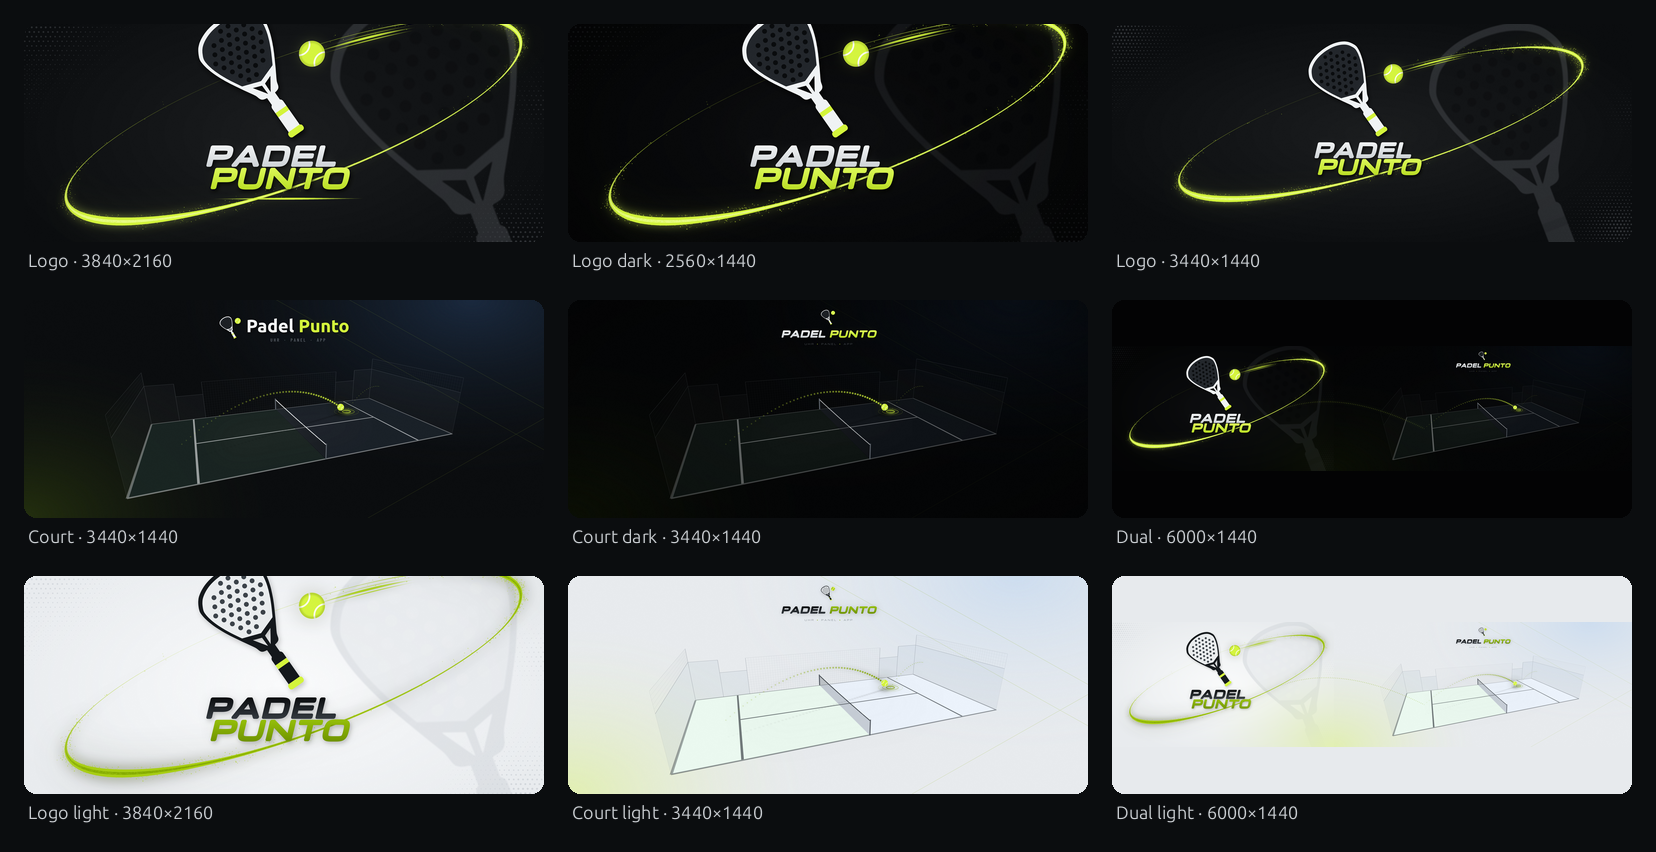
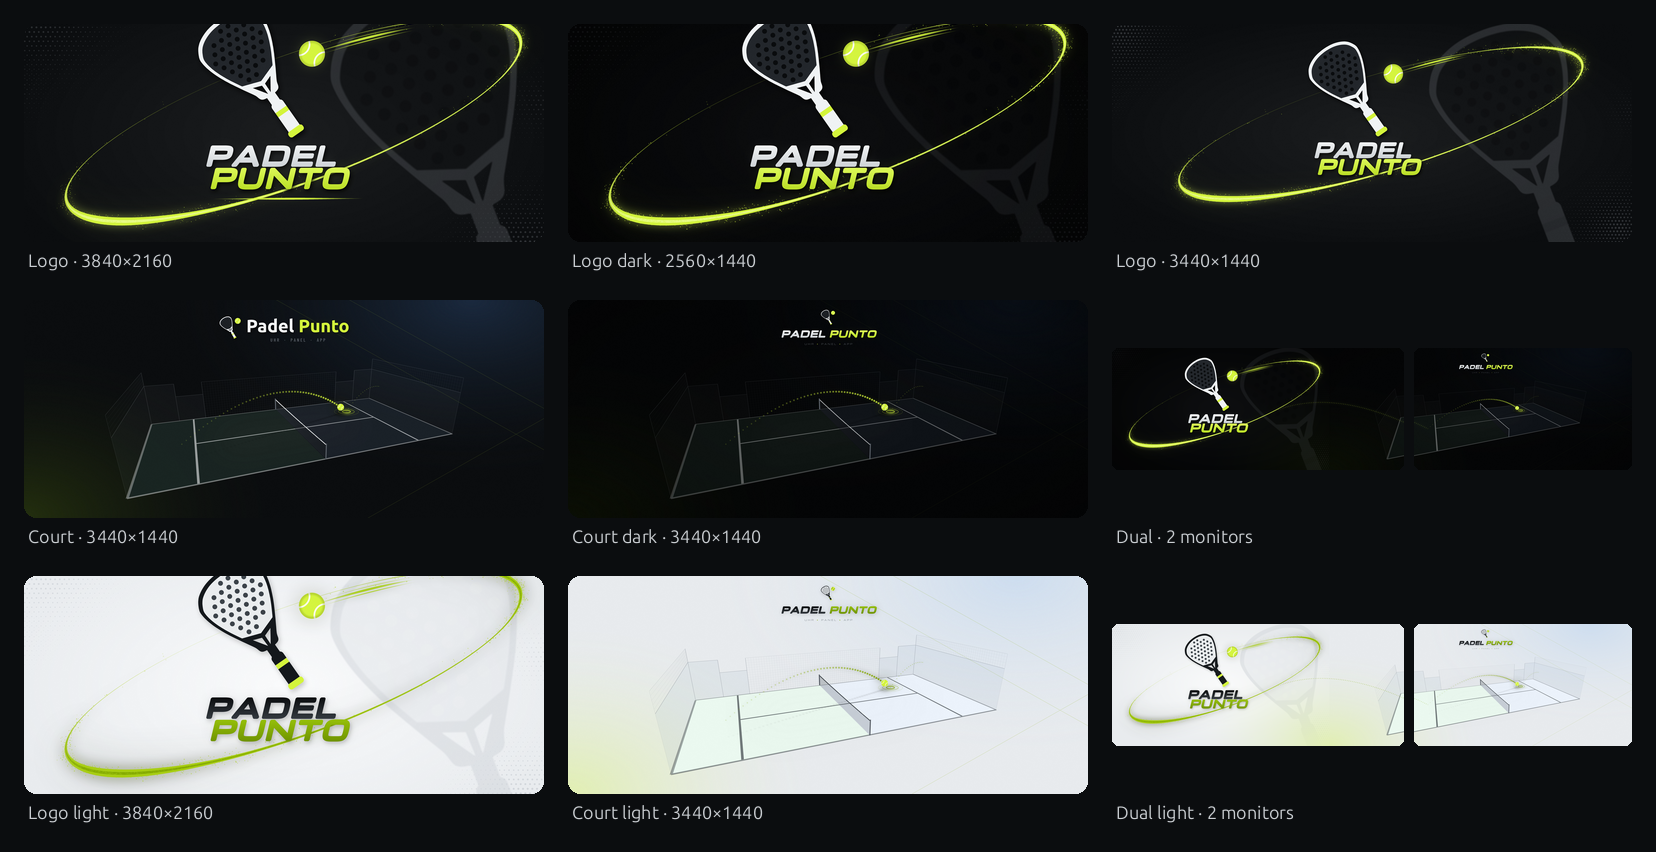
Wallpaper overview: show the dual wallpapers as two monitors

diff --git a/tools/readme_images.py b/tools/readme_images.py
@@ -141,26 +141,29 @@ comp.save(os.path.join(DOCS, "dark-light.png"), optimize=True); print("dark-ligh
 # --- all wallpapers as thumbnails
 walls = [("PadelPunto-3840x2160.png", "Logo · 3840×2160"), ("PadelPunto-Dark-2560x1440.png", "Logo dark · 2560×1440"),
          ("PadelPunto-3440x1440.png", "Logo · 3440×1440"), ("PadelPunto-Court-3440x1440.png", "Court · 3440×1440"),
-         ("PadelPunto-Court-Dark-3440x1440.png", "Court dark · 3440×1440"), ("PadelPunto-Dual-6000x1440.png", "Dual · 6000×1440"),
+         ("PadelPunto-Court-Dark-3440x1440.png", "Court dark · 3440×1440"), ("PadelPunto-Dual-6000x1440.png", "Dual · 2 monitors"),
          ("PadelPunto-Light-3840x2160.png", "Logo light · 3840×2160"), ("PadelPunto-Court-Light-3440x1440.png", "Court light · 3440×1440"),
-         ("PadelPunto-Dual-Light-6000x1440.png", "Dual light · 6000×1440")]
+         ("PadelPunto-Dual-Light-6000x1440.png", "Dual light · 2 monitors")]
 TW, TH, GAP, LAB = 520, 218, 24, 34
 sheet = Image.new("RGB", (3 * TW + 4 * GAP, 3 * (TH + LAB) + 4 * GAP), INK)
 ds = ImageDraw.Draw(sheet); fs = ImageFont.truetype(F + "Ubuntu-R.ttf", 18)
 for i, (f, label) in enumerate(walls):
     im = Image.open(os.path.join(WP, f)).convert("RGB")
-    if im.width / im.height > 3:      # dual: show it whole, centred on its own colour
-        s = TW / im.width
-        small = im.resize((TW, round(im.height * s)), Image.LANCZOS)
-        im = Image.new("RGB", (TW, TH), small.getpixel((TW // 2, 2)))
-        im.paste(small, (0, (TH - small.height) // 2))
+    x, y = GAP + (i % 3) * (TW + GAP), GAP + (i // 3) * (TH + LAB + GAP)
+    if im.width / im.height > 3:      # dual: shown as the two monitors it is made for (3440 + 2560)
+        split, gap = 3440 * im.width // 6000, 10
+        s = (TW - gap) / im.width
+        h = round(im.height * s); yy = y + (TH - h) // 2
+        for j, part in enumerate((im.crop((0, 0, split, im.height)), im.crop((split, 0, im.width, im.height)))):
+            w = round(part.width * s)
+            m = Image.new("L", (w, h), 0); ImageDraw.Draw(m).rounded_rectangle([0, 0, w - 1, h - 1], 6, fill=255)
+            sheet.paste(part.resize((w, h), Image.LANCZOS), (x + j * (round(split * s) + gap), yy), m)
     else:
         s = max(TW / im.width, TH / im.height)
         im = im.resize((round(im.width * s), round(im.height * s)), Image.LANCZOS)
         im = im.crop(((im.width - TW) // 2, (im.height - TH) // 2, (im.width - TW) // 2 + TW, (im.height - TH) // 2 + TH))
-    x, y = GAP + (i % 3) * (TW + GAP), GAP + (i // 3) * (TH + LAB + GAP)
-    m = Image.new("L", (TW, TH), 0); ImageDraw.Draw(m).rounded_rectangle([0, 0, TW - 1, TH - 1], 12, fill=255)
-    sheet.paste(im, (x, y), m)
+        m = Image.new("L", (TW, TH), 0); ImageDraw.Draw(m).rounded_rectangle([0, 0, TW - 1, TH - 1], 12, fill=255)
+        sheet.paste(im, (x, y), m)
     ds.text((x + 4, y + TH + 8), label, font=fs, fill="#c9cdd1")
 sheet.save(os.path.join(DOCS, "wallpapers.png"), optimize=True); print("wallpapers.png")
 
